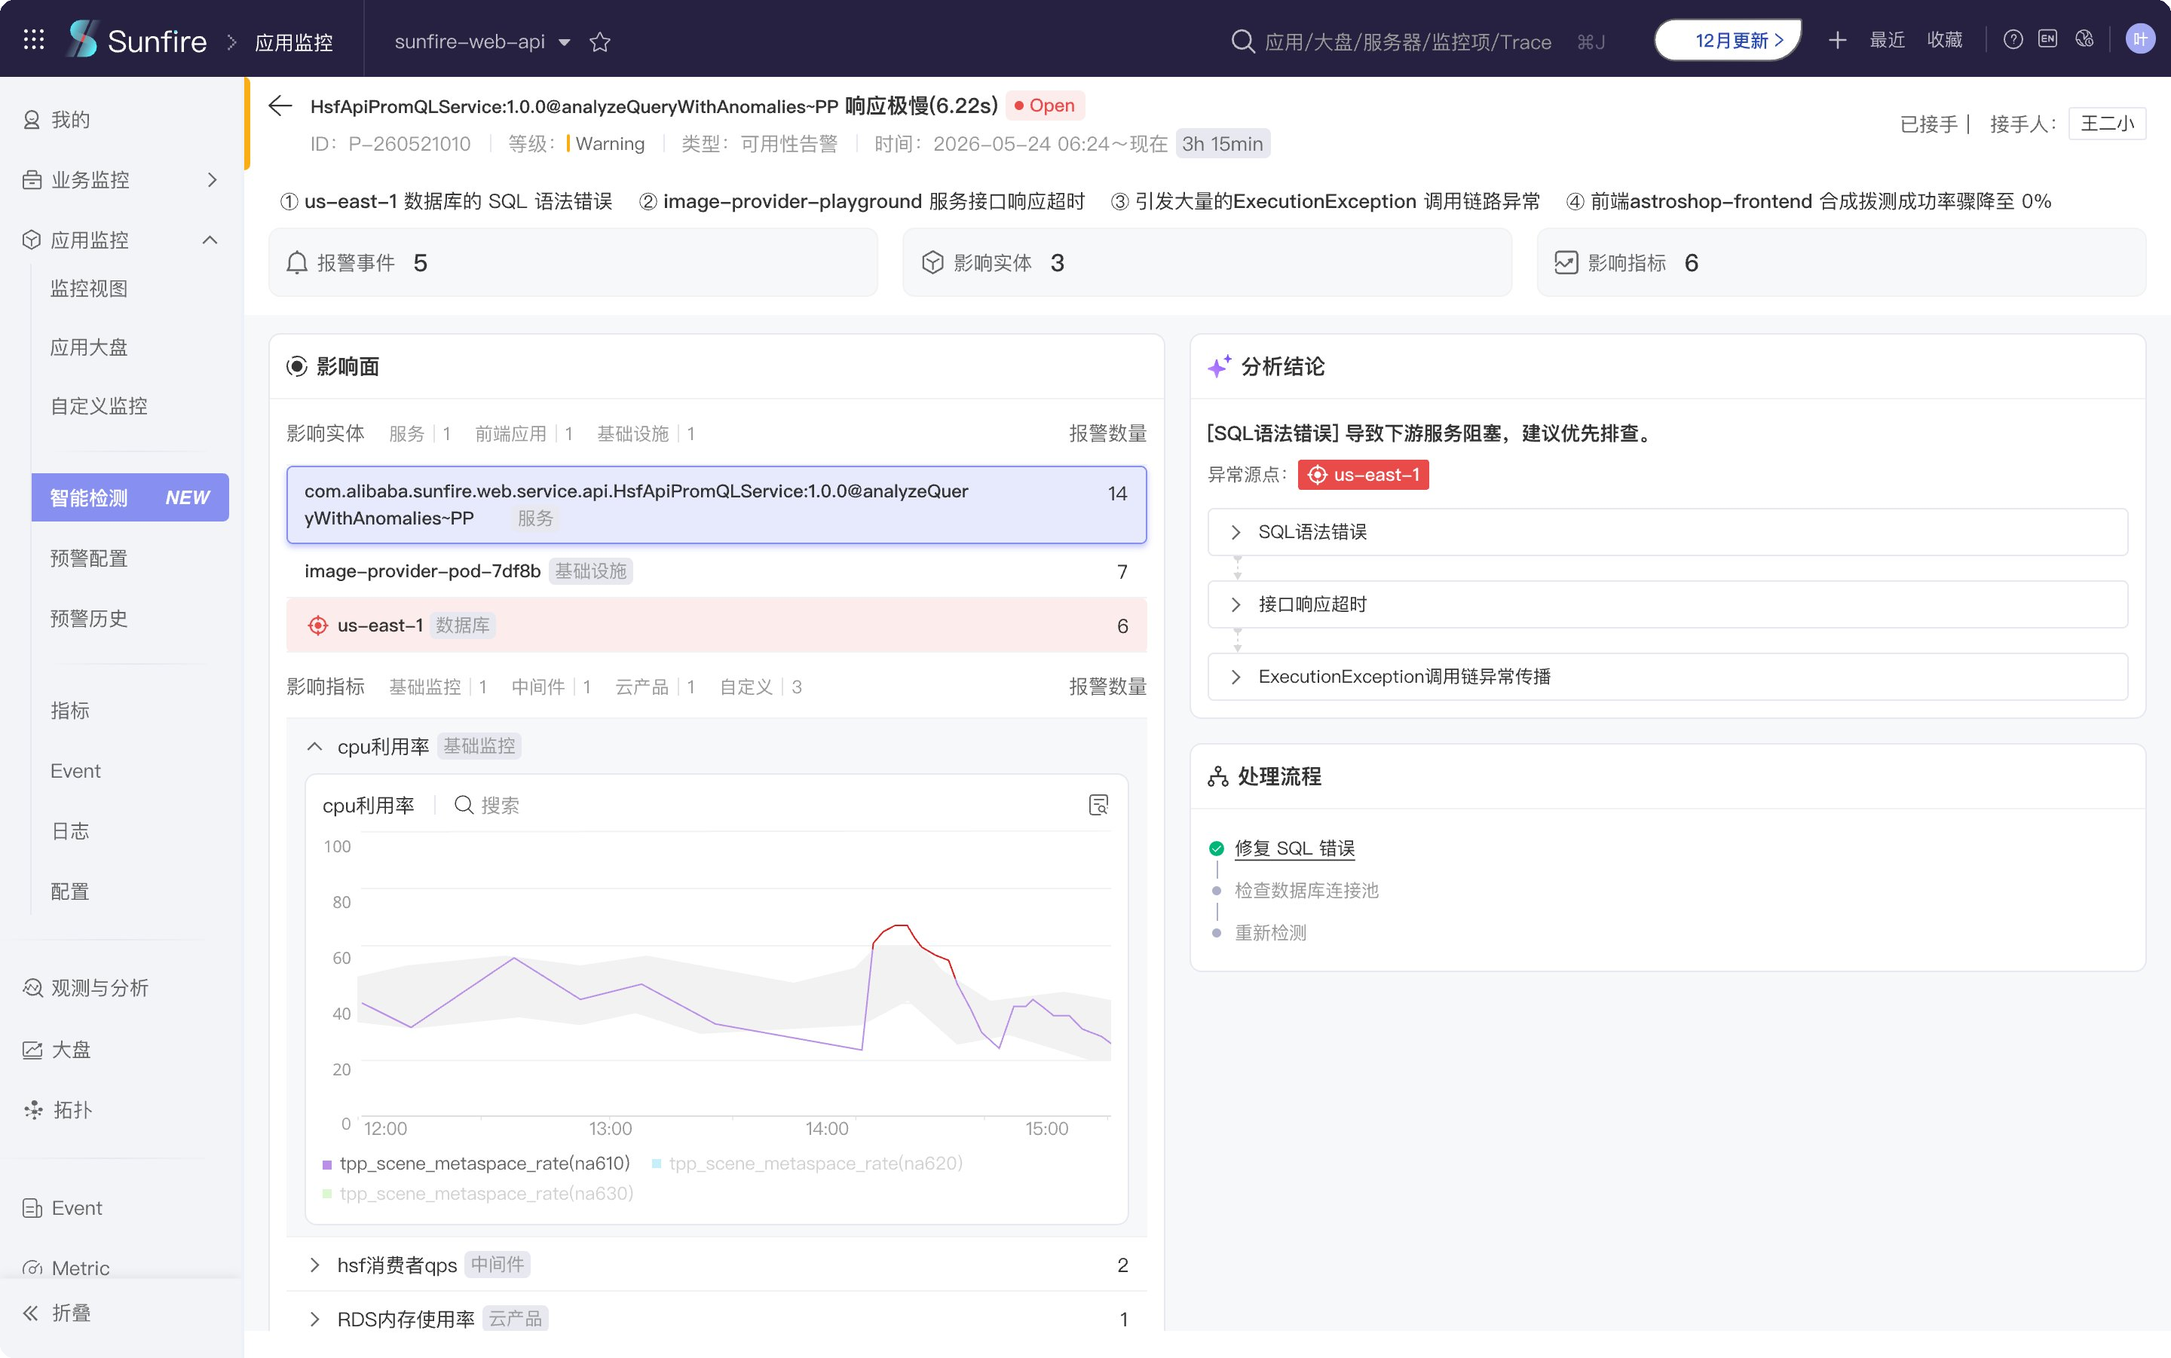
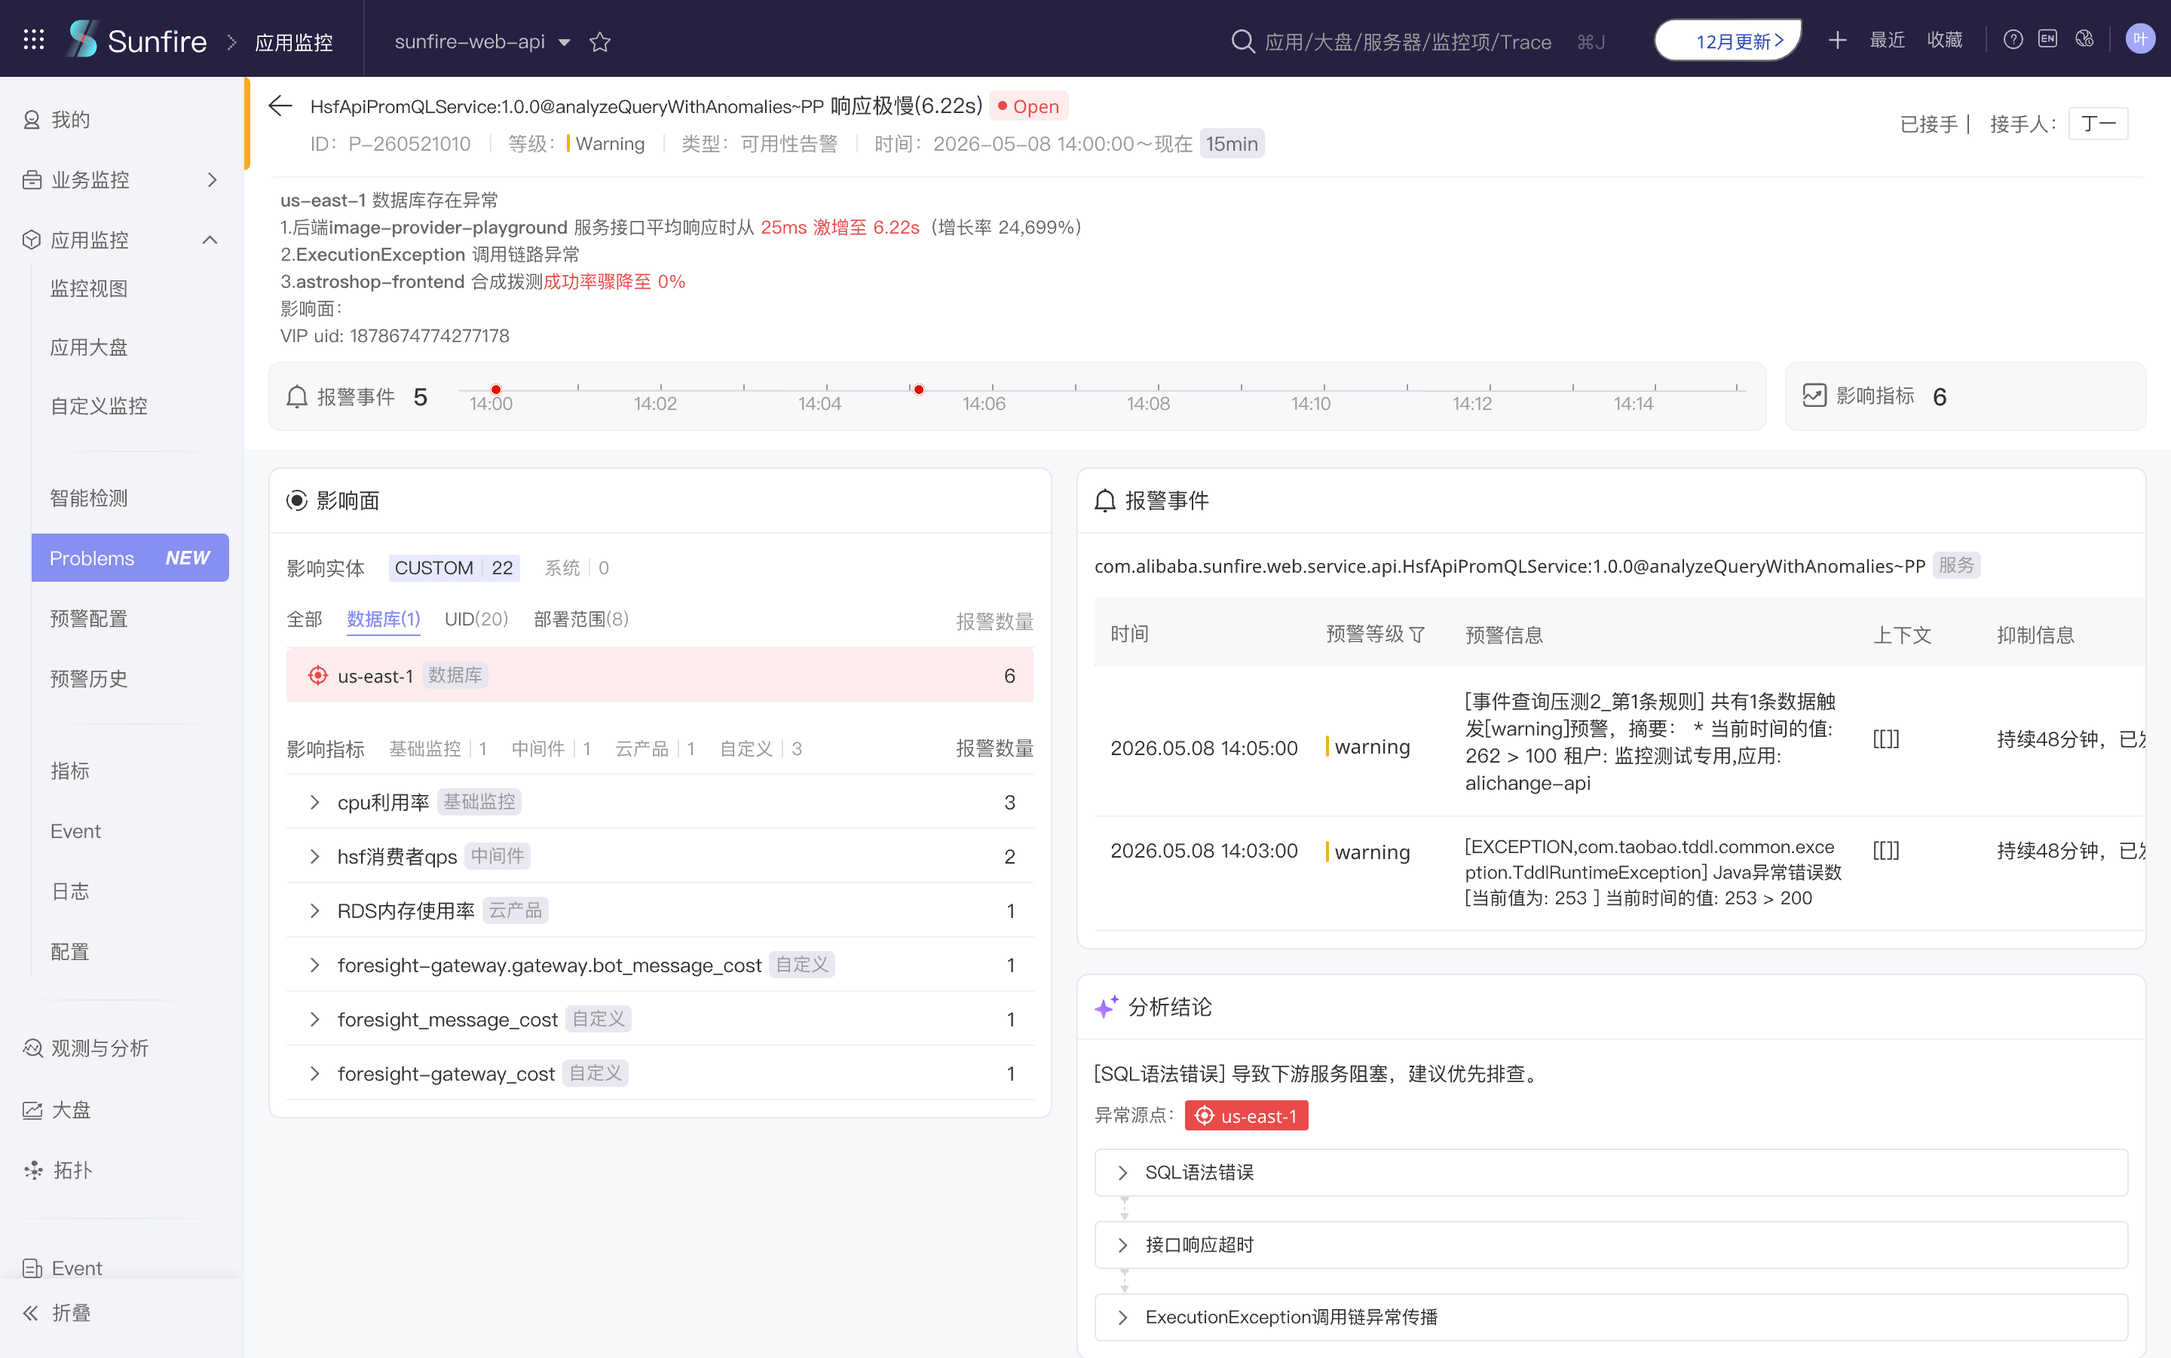
Add files via upload

diff --git a/work/sunfire.html b/work/sunfire.html
@@ -58,6 +58,7 @@
       <li><a href="#chapter-4" class="toc-link" data-target="chapter-4"><span class="toc-num">04</span><span class="toc-text">Monitor 重构</span></a></li>
       <li><a href="#chapter-5" class="toc-link" data-target="chapter-5"><span class="toc-num">05</span><span class="toc-text">组件统一</span></a></li>
       <li><a href="#chapter-6" class="toc-link" data-target="chapter-6"><span class="toc-num">延伸</span><span class="toc-text">Filters</span></a></li>
+      <li><a href="#chapter-7" class="toc-link" data-target="chapter-7"><span class="toc-num">06</span><span class="toc-text">Problem</span></a></li>
     </ul>
   </aside>
 
@@ -118,7 +119,7 @@
           <img src="../assets/images/work/menu-usage-data.svg" alt="基于真实埋点的顶部菜单点击量：业务监控 825 / 我的 546 / 应用监控 459 / 工作台 272，揭示「我的」承担「找东西」的角色" loading="lazy">
         </figure>
 
-        <p>研究中的一个关键发现：「我的」承载的不是“个性化推荐”，而是用户“找东西”的需求——关注内容是场景依赖的，不是一份固定清单。这个发现重新定义了「我的」视角的功能边界——同时也让原本独立的「工作台」菜单不再需要存在，相关能力收敛进「我的」（详见下一章）。</p>
+        <p>「我的」承载的不是“个性化推荐”，而是用户“找东西”的需求——关注内容是场景依赖的，不是一份固定清单。这一判断重新定义了「我的」视角的功能边界——同时也让原本独立的「工作台」菜单不再需要存在，相关能力收敛进「我的」（详见下一章）。</p>
 
         <p>顶部导航不归属于任何视角，但用户在任何场景下都可能需要：跨相关平台的菜单切换、全局搜索、常用功能、最近、收藏。这些能力收敛在顶部，让用户能跨视角、跨场景地快速到达目标。</p>
 
@@ -269,7 +270,7 @@
 
         <p><strong>Metric Explorer、规则配置、Event 提供代码 + 选择框。</strong>这些场景既有探索性查询（代码态高效），也有日常筛选（选择框低门槛）。两种形态并存、实时互转，让不同习惯的用户都能找到自己的输入方式。</p>
 
-        <p><strong>拓扑只提供选择框。</strong>用户在拓扑里以快速筛选为主，代码态会增加认知负担、表单则太重。提供单一形态是判断，不是省事——克制和扩展同样是设计能力。</p>
+        <p><strong>拓扑只提供选择框。</strong>用户在拓扑里以快速筛选为主，代码态会增加认知负担、表单则太重。</p>
 
         <p><strong>历史记录 · 承接用户的近期关注</strong></p>
 
@@ -280,6 +281,55 @@
         <p><strong>收束</strong></p>
 
         <p>这套抽象的本质——输入方式是用户的习惯、复用模式是用户的近期关注，都不属于场景；场景只决定开放多少种形态。它带来的结果是：用户协作不会产生认知断层——一份 Filters 表达在任何场景里都能被理解、被复用；新场景接入时，只需回答“开放哪些形态、提供怎样的复用机制”，而不再是“该用哪种 filter”。</p>
+
+        <!-- Chapter 06 · Problem · 告警排查 -->
+        <div class="judgment" id="chapter-7">
+          <div class="judgment-number">06</div>
+          <h2 class="judgment-title">Problem · 告警排查<br><span class="chapter-subtitle">多终端联动 —— 钉钉触达，平台排查</span></h2>
+        </div>
+
+        <p>Problem 把同一根源的多个异常事件聚合成一个 Problem。排查因此有了一个完整的单元：不用去追一堆分散的异常，面对的是一个 Problem——这是报警排查的起点。</p>
+
+        <p>一条 Problem 会走完一条链路：问题发生 → 产生报警 → 触达用户 → 排查根因 → 解决问题。这一章不讲整条链，只讲中间两个节点的分工与承接：用户「被触达」，和用户「主动排查」。前者要把告警送到该看的人面前，后者要让人从「被告知」接上「去查清」。这两个节点分别落在两个触点上——钉钉卡片，和平台详情页。</p>
+
+        <p><strong>钉钉卡片 · 触达相关的人，支撑一个初步判断：这条 Problem 跟我什么关系</strong></p>
+
+        <p>报警要的是第一时间、马上触达，而用户此刻是被动接收的。把 Problem 作为钉钉工作消息推送，正是最容易让人当场被触达到的形式。</p>
+
+        <p>一条 Problem 触达的往往不是一个人，是一群角色不同的人。因为一个 Problem 由同一根源引发的多个异常聚合而成，往往横跨多个监控项与实体，背后订阅、关注的人分属不同角色。对这群人，同一张卡片要跨过两重差异：被触达时的处境不同（有人在电脑前，有人在休息或外出），这个 Problem 对不同角色的意味也不同——该重视到什么程度、下一步做什么、有多紧急，都不一样。所以卡片得在第一时间给出足够的基本信息，让每个人初步判断：这条 Problem 跟我什么关系、要不要现在就动。</p>
+
+        <p>这是卡片上需要放影响面、分析结论、因果链这三样的原因——它们是判断的依据。但都只给到够做初步判断的程度：影响面只列 Top5、分析只给结论、因果链收进一个 tab。</p>
+
+        <p>卡片也跟着 Problem 的状态走：Open 态有一个待决的动作——接手，恢复后它就没了意义，连同值班、影响面这些为处置服务的信息一起收起，只补上恢复时间与「指标已回落到正常水平」、留一个查看详情。卡上放什么，取决于此刻还有没有要处理的问题。</p>
+
+        <figure class="work-figure" style="max-width: 640px; margin: 40px auto;">
+          <div style="display: grid; grid-template-columns: 1fr 1fr; gap: 24px; align-items: start;">
+            <div>
+              <img src="../assets/images/work/sunfire-problem-card-open.png" alt="Problem 钉钉告警卡片 · Open 态：问题摘要、影响面 Top5、AI 失火点分析、因果链，以及接手 / 值班 / 查看详情入口" loading="lazy">
+              <div class="figure-caption">Open 态 · 有待处置的动作</div>
+            </div>
+            <div>
+              <img src="../assets/images/work/sunfire-problem-card-recovered.png" alt="Problem 钉钉告警卡片 · 恢复态：处置类入口收起，补上恢复时间与「指标已回落到正常水平」，只留查看详情" loading="lazy">
+              <div class="figure-caption">恢复态 · 动作消解，卡片收敛</div>
+            </div>
+          </div>
+        </figure>
+
+        <p><strong>平台详情页 · 排查：查清根因</strong></p>
+
+        <p>排查是顺着结论往源头追的过程。所以详情页不止把信息给全，更把它按这条追查路径组织起来——从结论，到影响面，到一环环的因果链，直到异常源头。信息的完整是排查的前提，而排查的效率，取决于它是否按「人怎么往下查」来组织。</p>
+
+        <figure class="work-figure work-figure-wide">
+          <img src="../assets/images/work/sunfire-problem-detail.png" alt="Problem 平台详情页：影响面全量按维度分类、每条带报警数量，报警事件完整记录，因果链展开为 SQL 语法错误 → 接口响应超时 → ExecutionException 调用链异常传播，标出异常源点 us-east-1" loading="lazy">
+        </figure>
+
+        <p><strong>衔接 · 触点切换，上下文不断</strong></p>
+
+        <p>触达到排查，触点换了、端也换了，但用户手里那条线索不能断。所以卡片跳转直达这条 Problem 的详情页，而不是把人丢回 Problem 列表、让他再找一遍。</p>
+
+        <p><strong>收束</strong></p>
+
+        <p>多端联动不是响应式排版，至少在这个功能场景下不是。放什么信息或动作、选择什么触点，都由这个节点的职能决定；信息层次的传达和展示方式，也由这个节点承担的任务、以及触点的能力（它是个怎样的容器、它表达的限度）来决定。</p>
 
         <!-- 文末可展开的"更多模块" -->
         <details class="more-modules">
@@ -299,17 +349,6 @@
               <figure class="work-figure work-figure-wide" style="margin: 24px 0 0 0;">
                 <img src="../assets/images/work/sunfire-topo.png" alt="Sunfire 拓扑模块：支持多对象类型、双数据源、多 filter 组合查询、节点展开详情" loading="lazy">
               </figure>
-
-              <dt>Problems <span class="module-tag">0 - 1 构建</span></dt>
-              <dd>异常诊断与聚合：将同一根源的多个异常聚合为一个 Problem，支持根因分析与追踪。</dd>
-              <div style="display: grid; grid-template-columns: 0.35fr 1.2fr; gap: 20px; align-items: stretch; margin: 24px 0 0 0;">
-                <figure class="work-figure" style="margin: 0;">
-                  <img src="../assets/images/work/sunfire-dingtalk-card.png" alt="Problems 模块：钉钉卡片形式的问题通知与分析摘要" loading="lazy" style="height: 100%; object-fit: contain;">
-                </figure>
-                <figure class="work-figure" style="margin: 0;">
-                  <img src="../assets/images/work/sunfire-problem-detail.png" alt="Problems 详情页：问题分析结论、影响范围、处理流程、根因链路" loading="lazy" style="height: 100%; object-fit: contain;">
-                </figure>
-              </div>
             </dl>
           </div>
         </details>
@@ -394,8 +433,8 @@
 
     // TOC scroll spy
     const tocLinks = document.querySelectorAll('.toc-link');
-    const sections = ['chapter-1', 'chapter-2', 'chapter-3', 'chapter-4', 'chapter-5', 'chapter-6']
-      .map(id => document.getElementById(id))
+    const sections = Array.from(tocLinks)
+      .map(link => document.getElementById(link.dataset.target))
       .filter(Boolean);
 
     function updateActiveSection() {

diff --git a/index.html b/index.html
@@ -143,6 +143,25 @@
     </div>
   </section>
 
+  <!-- Other work · 其他项目 -->
+  <section class="section" id="more-work">
+    <div class="container">
+      <div class="section-header">
+        <p class="section-label">数据大屏 / Dashboard</p>
+        <p class="section-intro">未展开为独立案例。</p>
+      </div>
+
+      <figure class="work-figure work-figure-wide bigscreen-figure reveal">
+        <img src="assets/images/work/bigscreen-1111.png" alt="大促实时监控指挥中心数据大屏：交易创建、付款成功等核心链路实时指标，数据中心分区，应用错误码分布，呈现超大屏下的信息密度与栅格组织" loading="lazy">
+      </figure>
+
+      <div class="bigscreen-cap reveal">
+        <h3 class="cap-title">双 11 / 618 · 大促实时监控指挥中心</h3>
+        <p class="cap-desc">面向远距离、多人同时盯屏，信息密度与辨识度是超大屏的核心约束。超大屏分辨率下的信息密度与栅格规范，重复监控模块组件化交接。2021—2023 主导设计，此后历年大促沿用、仅更新数据。</p>
+      </div>
+    </div>
+  </section>
+
   <!-- Transition: work → writing -->
   <div class="container">
     <div class="transition reveal">
@@ -217,7 +236,7 @@
 
           <div class="exp-item">
             <p class="exp-role">用户体验设计 · Design Owner</p>
-            <p class="exp-meta">阿里巴巴 · 长期驻场 · 2021 — 至今<br>以 Design Owner 身份长期独立负责、端到端主导设计（非项目外包交付）：Sunfire 企业级监控平台全量设计——37 租户、20,000+ 应用，从顶层信息架构到模块交互细节；同时主导 Trace for AI、SRE Agent 等 AI 方向产品设计；以及 World Box、双十一 / 618 数据大屏等独立项目。</p>
+            <p class="exp-meta">阿里巴巴 · 长期驻场 · 2021 — 至今<br>以 Design Owner 身份长期独立负责、端到端主导设计（非项目外包交付）：Sunfire 企业级监控平台全量设计——37 租户、20,000+ 应用，从顶层信息架构到模块交互细节；同时主导 Trace for AI、SRE Agent 等 AI 方向产品设计；以及 World Box 等独立项目。</p>
           </div>
 
           <div class="exp-item">
@@ -244,11 +263,6 @@
           </p>
           <div class="skills-divider"></div>
           <p class="skills-text">
-            <strong>AI 工作流</strong><br>
-            研究加速 · 方案参考生成 · 设计评审辅助 · Design Token 结构化
-          </p>
-          <div class="skills-divider"></div>
-          <p class="skills-text">
             <strong>教育与认证</strong><br>
             浙江科技学院 · 视觉传达设计 · 2016<br>
             Apple Authorized Training · Innovation & PM · 2021
@@ -263,7 +277,7 @@
   <footer class="footer">
     <div class="container">
       <p class="footer-pitch reveal">
-        可观测性与 AI 产品的体验推演，欢迎同频者来信。
+        欢迎体验设计交流。
       </p>
 
       <div class="footer-row">

diff --git a/writing/three-judgments.html b/writing/three-judgments.html
@@ -141,7 +141,7 @@
 
         <p>需要先回到用户在完成这类任务时的真实路径：他实际的步骤是什么，哪些判断是他需要做的，哪些是系统应该消化掉的。围绕这些问题，类型收敛、操作归一、流程解耦——形式不同，本质都是把系统的复杂度从用户侧移走。</p>
 
-        <p>还有一个容易被忽视的层面：操作收敛做到了，但页面观感仍然复杂。能合并的区域没有合并、结构层次不清晰，用户一进来就觉得难用。操作和结构是两件事，都到位，配置体验才算完整。</p>
+        <p>操作收敛之外，页面观感是另一件事：能合并的区域没有合并、结构层次不清晰，用户一进来就觉得难用。操作和结构是两件事，都到位，配置体验才算完整。</p>
 
         <!-- 尾注 -->
         <div class="article-closing" id="closing">

diff --git a/assets/style.css b/assets/style.css
@@ -2260,3 +2260,25 @@ body.lb-lock { overflow: hidden; }
 @media (prefers-reduced-motion: reduce) {
   .lb-overlay { transition: none; }
 }
+
+/* === 数据大屏（上下全宽，图可点开放大） === */
+#more-work { border-top: 0; }
+.bigscreen-figure { margin: 0; }
+.bigscreen-figure img {
+  border-radius: 6px;
+  border: 0.5px solid var(--border);
+}
+.bigscreen-cap { max-width: 700px; margin-top: 28px; }
+.bigscreen-cap .cap-title {
+  font-family: var(--serif);
+  font-size: 20px;
+  font-weight: 400;
+  color: var(--text-primary);
+  letter-spacing: -0.01em;
+  margin-bottom: 12px;
+}
+.bigscreen-cap .cap-desc {
+  font-size: 14.5px;
+  line-height: 1.7;
+  color: var(--text-secondary);
+}

diff --git a/work/sre-agent.html b/work/sre-agent.html
@@ -100,7 +100,7 @@
 
         <p>SRE Agent 是一个 AI Native 产品，基于第三方可观测数据，通过对话形式支持变更检测、故障分析、应用巡检三个核心场景。</p>
 
-        <p>我从 2026 年起担任 Design Owner，负责产品的核心设计。基础版开发中。本页文档化目前已完成的核心判断，以及在持续探索的设计方向。</p>
+        <p>我从 2026 年起担任 Design Owner，负责产品的核心设计。基础版开发中。</p>
 
         <!-- Chapter 02 · 三个场景 -->
         <div class="judgment" id="chapter-2">
